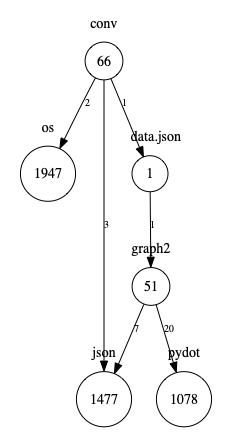
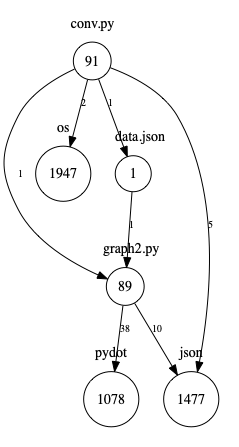
graf funkcji

diff --git a/graph2.py b/graph2.py
@@ -2,20 +2,25 @@ import json
 import pydot
 
 datastore = {}
-
-def main():
+fundata = {}
+def maing():
     global datastore
+    global fundata
     with open('data.json', 'r') as f:
         datastore = json.load(f)
 
+    with open('func.json', 'r') as f:
+        fundata = json.load(f)
+    drawGraph()
 
 def drawGraph():
     global datastore
+    global fundata
     graph1 = pydot.Dot(graph_type='digraph')
-    cluster_1=pydot.Cluster('graf',label='graph2', style="filled",color="white")
+    cluster_1=pydot.Cluster('graf',label='graph2.py', style="filled",color="white")
     cluster_1.add_node(pydot.Node('gr', label=datastore['graph2.py']['lines'],shape="circle", style="filled", fillcolor="white"))
 
-    cluster_2=pydot.Cluster('conv',label='conv', style="filled",color="white")
+    cluster_2=pydot.Cluster('conv',label='conv.py', style="filled",color="white")
     cluster_2.add_node(pydot.Node('co', label=datastore['conv.py']['lines'], shape="circle", style="filled", fillcolor="white"))
 
     cluster_3=pydot.Cluster('pyd',label='pydot', style="filled",color="white")
@@ -43,9 +48,43 @@ def drawGraph():
     graph1.add_edge(pydot.Edge("gr", "jso",label=datastore['graph2.py']['json'], fontsize="10.0"))
     graph1.add_edge(pydot.Edge("co", "djso",label='1', fontsize="10.0"))
     graph1.add_edge(pydot.Edge("djso", "gr",label='1', fontsize="10.0"))
+    graph1.add_edge(pydot.Edge("co", "gr",label='1', fontsize="10.0"))
 
     graph1.write_png('graf.png')
 
+    graph2= pydot.Dot(graph_type='digraph')
+    cluster_1=pydot.Cluster('',label='', style="filled",color="white")
+    cluster_1.add_node(pydot.Node('main', label='main',shape="circle", style="filled", fillcolor="white"))
 
-main()
-drawGraph()
+    cluster_2=pydot.Cluster('',label='', style="filled",color="white")
+    cluster_2.add_node(pydot.Node('getf', label='getFiles', shape="circle", style="filled", fillcolor="white"))
+
+    cluster_3=pydot.Cluster('',label='', style="filled",color="white")
+    cluster_3.add_node(pydot.Node('getw', label='getWords',shape="circle", style="filled", fillcolor="white"))
+
+    cluster_4=pydot.Cluster('',label='', style="filled",color="white")
+    cluster_4.add_node(pydot.Node('std', label='saveToDictionary', shape="circle", style="filled", fillcolor="white"))
+
+    cluster_5=pydot.Cluster('',label='', style="filled",color="white")
+    cluster_5.add_node(pydot.Node('stf', label='saveToFile', shape="circle", style="filled", fillcolor="white"))
+
+    cluster_6=pydot.Cluster('',label='', style="filled",color="white")
+    cluster_6.add_node(pydot.Node('dg', label='drawGraph', shape="circle", style="filled", fillcolor="white"))
+
+    graph2.add_subgraph(cluster_1)
+    graph2.add_subgraph(cluster_2)
+    graph2.add_subgraph(cluster_3)
+    graph2.add_subgraph(cluster_4)
+    graph2.add_subgraph(cluster_5)
+    graph2.add_subgraph(cluster_6)
+
+    graph2.add_edge(pydot.Edge("main", "dg",label='1', fontsize="10.0"))
+    graph2.add_edge(pydot.Edge("main", "stf",label='1', fontsize="10.0"))
+    graph2.add_edge(pydot.Edge("main", "std",label='1',  fontsize="10.0"))
+    graph2.add_edge(pydot.Edge("main", "getw",label='1', fontsize="10.0"))
+    graph2.add_edge(pydot.Edge("main", "getf",label='1', fontsize="10.0"))
+
+
+    graph2.write_png('graffunkcji.png')
+
+maing()

diff --git a/conv.py b/conv.py
@@ -1,6 +1,8 @@
 import os
 import json
 
+
+df = "def"
 imp = "import"
 path = "/Users/marcinzachura/PycharmProjects/untitled/grafy/Grafy"
 files = []
@@ -10,6 +12,11 @@ hmap = {}
 counter = 0
 lines = ()
 lineCounter = 0
+
+func_names = []
+func_counter = 0
+func_dict = {}
+all_func_dict = {}
 
 def main():
     global lines
@@ -22,6 +29,8 @@ def main():
             saveToDictionary(fil)
             words = []
     saveToFile()
+    print(func_names)
+
 
 def getFiles():
     # r=root, d=directories, f = files
@@ -43,24 +52,40 @@ def getWords():
             word = list_of_words[1]
             if word is not "=":
                 words.append(word)
+        if df in line:
+            list_of_func_names = line.split();
+            word = list_of_func_names[1]
+            if word is not "=":
+                func_names.append(word)
     lineCounter = 0
 
 def saveToDictionary(fil):
     global counter
     global hmap
+    global func_dict
+    global func_counter
     for w in words:
         for line in lines:
             if str(w) in line:
                 counter = counter + 1
                 hmap[w] = counter
         counter = 0
+    for name in func_names:
+        for line in lines:
+            if str(name) in line:
+                func_counter = func_counter + 1
+                func_dict[name] = func_counter
+        func_counter = 0
     fhmap[str(fil)] = hmap
+    all_func_dict[str(fil)] = func_dict;
     hmap = {}
+    func_dict = {}
 
 
 def saveToFile():
     with open('data.json', 'w') as js_file:
         data = json.dump(fhmap, js_file)
-
+    with open('func.json', 'w') as js_file:
+        data = json.dump(all_func_dict, js_file,indent=2,)
 
 main()
